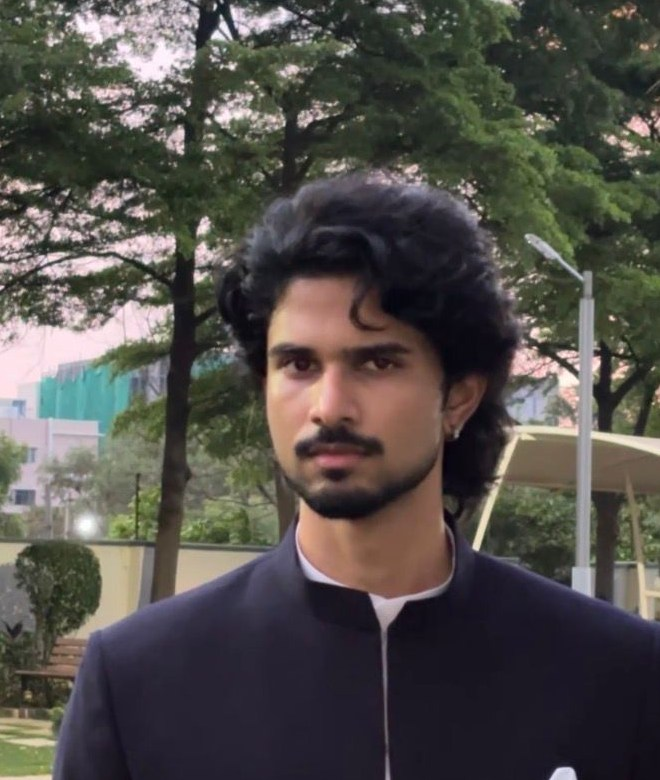
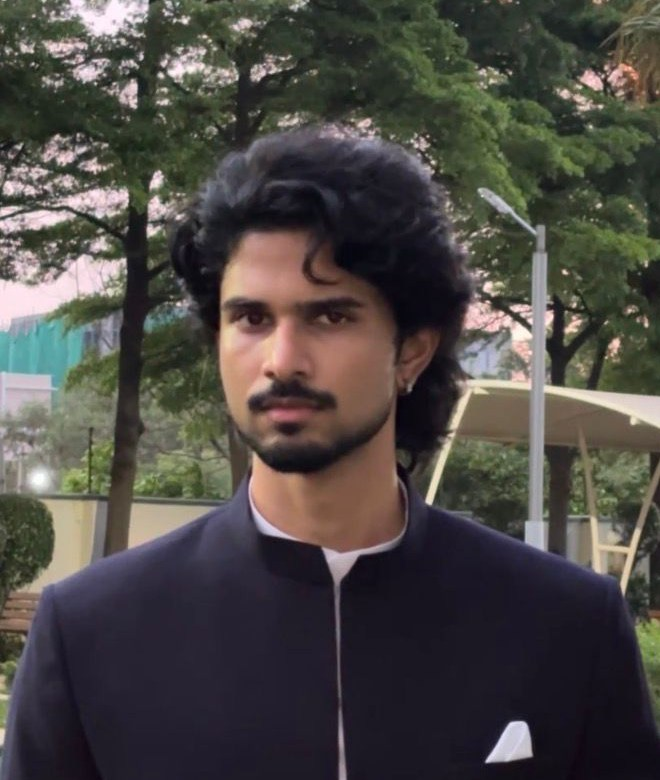
feat(mobile): tap scene to close the open panel; portrait re-cropped (down+right). Hobbies kept as stacked cards by design

diff --git a/public/poc-9-creature.html b/public/poc-9-creature.html
@@ -2233,6 +2233,7 @@ window.__novaState=()=>{ const v=bhShadow.getWorldPosition(new THREE.Vector3()).
 // ── CLICK ─────────────────────────────────────────────────────
 renderer.domElement.addEventListener('click',e=>{
   if(dragMoved){ dragMoved=false; return; }   // that "click" was actually a drag-to-rotate → don't poke/select
+  if(document.body.classList.contains('mobile')){ const sh=document.getElementById('m-sheet'); if(sh && sh.classList.contains('open')){ if(window.__mCloseSheet) window.__mCloseSheet(); return; } }   // tap the scene → close the open panel
   if(hovNav>=0){ const nd=NAV[hovNav];
     if(nd.game){ if(gameState.enabled) exitDefendMode(); else enterDefendMode(); return; }   // DEFEND node toggles the game
     if(gameState.enabled) return;                                              // no section nav while the game is running

diff --git a/samples/poc-9-creature.html b/samples/poc-9-creature.html
@@ -2233,6 +2233,7 @@ window.__novaState=()=>{ const v=bhShadow.getWorldPosition(new THREE.Vector3()).
 // ── CLICK ─────────────────────────────────────────────────────
 renderer.domElement.addEventListener('click',e=>{
   if(dragMoved){ dragMoved=false; return; }   // that "click" was actually a drag-to-rotate → don't poke/select
+  if(document.body.classList.contains('mobile')){ const sh=document.getElementById('m-sheet'); if(sh && sh.classList.contains('open')){ if(window.__mCloseSheet) window.__mCloseSheet(); return; } }   // tap the scene → close the open panel
   if(hovNav>=0){ const nd=NAV[hovNav];
     if(nd.game){ if(gameState.enabled) exitDefendMode(); else enterDefendMode(); return; }   // DEFEND node toggles the game
     if(gameState.enabled) return;                                              // no section nav while the game is running